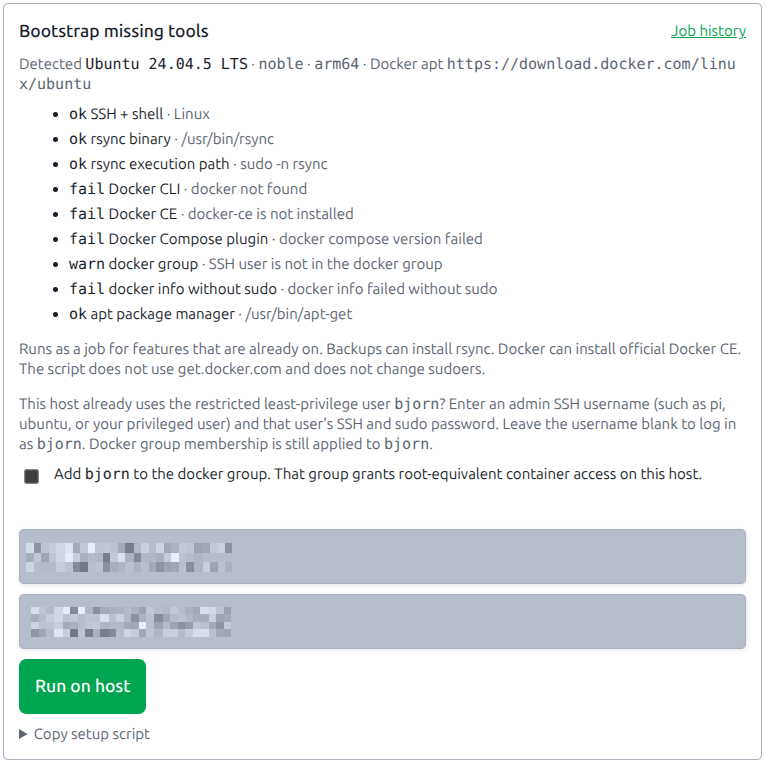
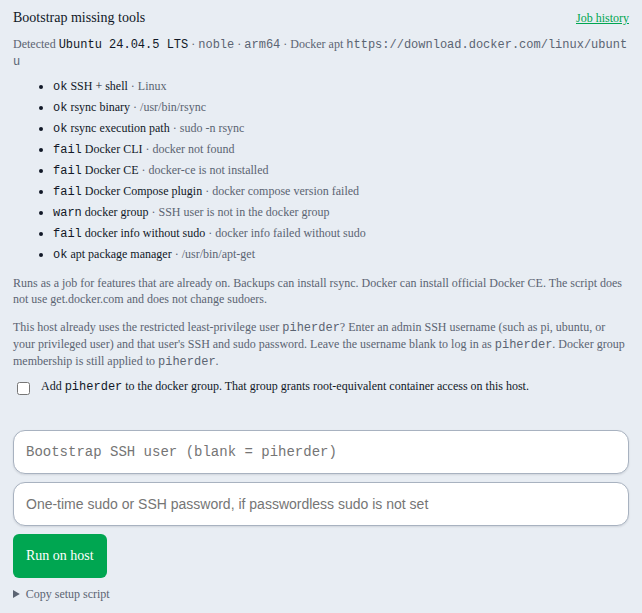
docs(v1.13): show the bootstrap card with the default fleet user

Changed region(s): [[0.0, 0.0, 0.9969, 0.4959], [0.0, 0.6819, 0.9969, 0.9918], [0.0, 0.5269, 0.9657, 0.6509]]

diff --git a/wiki/assets/screenshots/README.md b/wiki/assets/screenshots/README.md
@@ -49,7 +49,7 @@ Wireframe SVGs (`*.svg`) are legacy placeholders; wiki pages use real PNGs. You 
 | `docker-build-cache-prune.png` | Host Docker page | **Wired.** Build cache prune, volume confirm unticked, and a saved prune schedule | [Docker](../../docker/overview.md) |
 | `alerts-stuck-queue.png` | Alerts | Not in the pack. No stuck-queue warning to photograph yet | [Alerts](../../operations/alerts-email-webhooks.md) |
 | `about-scheduler-prune.png` | About | **Wired.** View schedule open on Docker prune. The host name is masked | [Status](../../operations/status.md) |
-| `host-bootstrap.png` | SSH access | **Wired.** Bootstrap missing tools. Password fields are masked | [Add a server](../../day-to-day/add-server.md) |
+| `host-bootstrap.png` | SSH access | **Wired.** Bootstrap missing tools. The fleet user is piherder. Password fields are empty | [Add a server](../../day-to-day/add-server.md) |
 
 ### Do not shoot for 1.13
 

diff --git a/wiki/day-to-day/add-server.md b/wiki/day-to-day/add-server.md
@@ -116,7 +116,7 @@ Tick the confirm box before Docker bootstrap. Adding the fleet SSH user to the `
 
 <figure class="ph-figure" markdown>
   ![Bootstrap missing tools](../assets/screenshots/host-bootstrap.png)
-  <figcaption>SSH access, Bootstrap missing tools. The password fields are masked.</figcaption>
+  <figcaption>SSH access, Bootstrap missing tools. The fleet user is piherder. The password fields are empty.</figcaption>
 </figure>
 
 !!! tip "Clear stored passwords"
